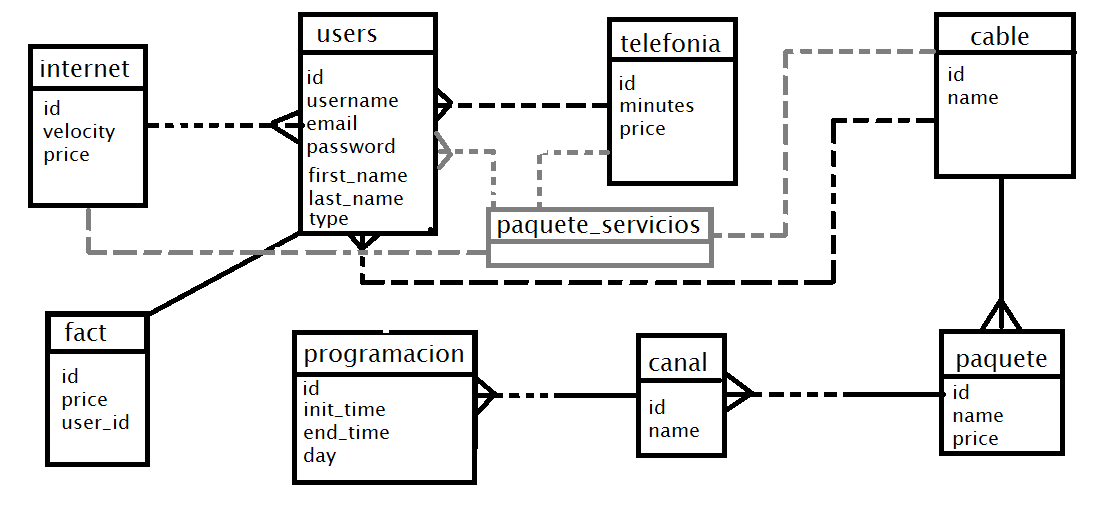
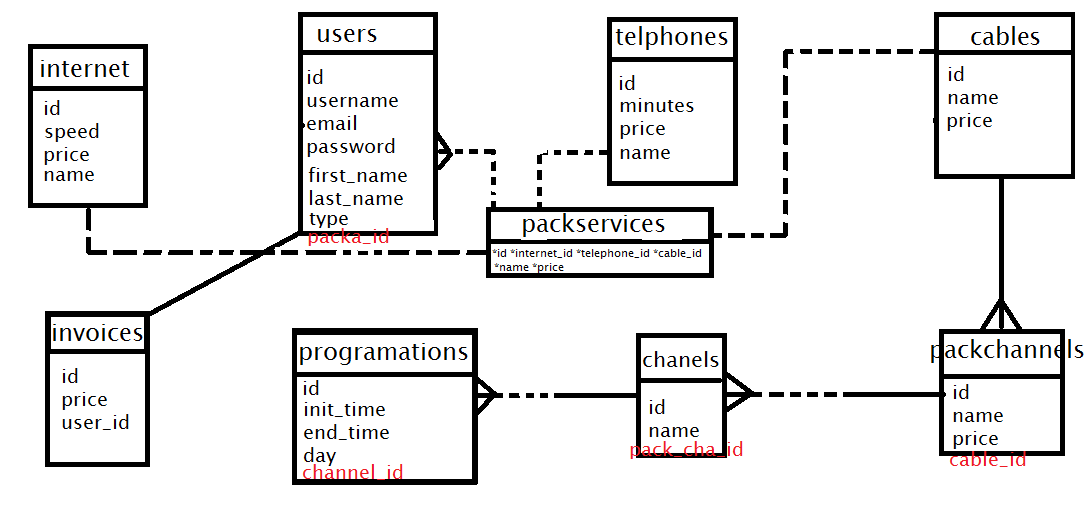
ending models and relations

diff --git a/database/migrations/2019_01_20_190535_create_packservices_table.php b/database/migrations/2019_01_20_190535_create_packservices_table.php
@@ -1,0 +1,39 @@
+<?php
+
+use Illuminate\Support\Facades\Schema;
+use Illuminate\Database\Schema\Blueprint;
+use Illuminate\Database\Migrations\Migration;
+
+class CreatePackservicesTable extends Migration
+{
+    /**
+     * Run the migrations.
+     *
+     * @return void
+     */
+    public function up()
+    {
+        Schema::create('packservices', function (Blueprint $table) {
+            $table->increments('id');
+            $table->string('name',30);
+            $table->double('price');
+            $table->integer('internet_id')->unsigned()->default('null');
+            $table->integer('telephone_id')->unsigned()->default('null');
+            $table->integer('cable_id')->unsigned()->default('null');
+            $table->foreign('internet_id')->references('id')->on('internets')->onDelete('cascade');
+            $table->foreign('telephone_id')->references('id')->on('telephones')->onDelete('cascade');
+            $table->foreign('cable_id')->references('id')->on('cables')->onDelete('cascade');
+            $table->timestamps();
+        });
+    }
+
+    /**
+     * Reverse the migrations.
+     *
+     * @return void
+     */
+    public function down()
+    {
+        Schema::dropIfExists('packservices');
+    }
+}

diff --git a/database/migrations/2019_01_20_190741_create_packchannels_table.php b/database/migrations/2019_01_20_190741_create_packchannels_table.php
@@ -4,7 +4,7 @@ use Illuminate\Support\Facades\Schema;
 use Illuminate\Database\Schema\Blueprint;
 use Illuminate\Database\Migrations\Migration;
 
-class CreateTelephonesTable extends Migration
+class CreatePackChannelsTable extends Migration
 {
     /**
      * Run the migrations.
@@ -13,10 +13,12 @@ class CreateTelephonesTable extends Migration
      */
     public function up()
     {
-        Schema::create('telephones', function (Blueprint $table) {
+        Schema::create('packchannels', function (Blueprint $table) {
             $table->increments('id');
-            $table->integer('minutes');
+            $table->string('name');
             $table->double('price');
+            $table->integer('cable_id')->unsigned();
+            $table->foreign('cable_id')->references('id')->on('cables')->onDelete('cascade');
             $table->timestamps();
         });
     }
@@ -28,6 +30,6 @@ class CreateTelephonesTable extends Migration
      */
     public function down()
     {
-        Schema::dropIfExists('telephones');
+        Schema::dropIfExists('packchannels');
     }
 }

diff --git a/database/migrations/2019_01_20_190456_create_cables_table.php b/database/migrations/2019_01_20_190456_create_cables_table.php
@@ -4,7 +4,7 @@ use Illuminate\Support\Facades\Schema;
 use Illuminate\Database\Schema\Blueprint;
 use Illuminate\Database\Migrations\Migration;
 
-class CreateProgramationsTable extends Migration
+class CreateCablesTable extends Migration
 {
     /**
      * Run the migrations.
@@ -13,12 +13,10 @@ class CreateProgramationsTable extends Migration
      */
     public function up()
     {
-        Schema::create('programations', function (Blueprint $table) {
+        Schema::create('cables', function (Blueprint $table) {
             $table->increments('id');
-            $table->string('name',30);
-            $table->string('start_hour',5);
-            $table->string('end_hour',5);
-            $table->integer('day');         
+            $table->string('name');
+            $table->double('price');
             $table->timestamps();
         });
     }
@@ -30,6 +28,6 @@ class CreateProgramationsTable extends Migration
      */
     public function down()
     {
-        Schema::dropIfExists('programations');
+        Schema::dropIfExists('cables');
     }
 }

diff --git a/database/migrations/2019_01_20_190704_create_invoices_table.php b/database/migrations/2019_01_20_190704_create_invoices_table.php
@@ -4,7 +4,7 @@ use Illuminate\Support\Facades\Schema;
 use Illuminate\Database\Schema\Blueprint;
 use Illuminate\Database\Migrations\Migration;
 
-class CreatePackageChannelsTable extends Migration
+class CreateInvoicesTable extends Migration
 {
     /**
      * Run the migrations.
@@ -13,10 +13,11 @@ class CreatePackageChannelsTable extends Migration
      */
     public function up()
     {
-        Schema::create('package_channels', function (Blueprint $table) {
+        Schema::create('invoices', function (Blueprint $table) {
             $table->increments('id');
-            $table->string('name');
             $table->double('price');
+            $table->integer('user_id')->unsigned();
+            $table->foreign('user_id')->references('id')->on('users')->onDelete('cascade');
             $table->timestamps();
         });
     }
@@ -28,6 +29,6 @@ class CreatePackageChannelsTable extends Migration
      */
     public function down()
     {
-        Schema::dropIfExists('package_channels');
+        Schema::dropIfExists('invoices');
     }
 }

diff --git a/database/migrations/2019_01_20_190406_create_telephones_table.php b/database/migrations/2019_01_20_190406_create_telephones_table.php
@@ -4,7 +4,7 @@ use Illuminate\Support\Facades\Schema;
 use Illuminate\Database\Schema\Blueprint;
 use Illuminate\Database\Migrations\Migration;
 
-class CreateInternetTable extends Migration
+class CreateTelephonesTable extends Migration
 {
     /**
      * Run the migrations.
@@ -13,14 +13,12 @@ class CreateInternetTable extends Migration
      */
     public function up()
     {
-        Schema::create('internet', function (Blueprint $table) {
+        Schema::create('telephones', function (Blueprint $table) {
             $table->increments('id');
-            $table->string('name',30);
-            $table->integer('speed');
+            $table->integer('minutes');
             $table->double('price');
-            $table->integer('user_id');
+            $table->string('name',30);
             $table->timestamps();
-
         });
     }
 
@@ -31,6 +29,6 @@ class CreateInternetTable extends Migration
      */
     public function down()
     {
-        Schema::dropIfExists('internet');
+        Schema::dropIfExists('telephones');
     }
 }

diff --git a/database/migrations/2019_01_20_190904_create_programations_table.php b/database/migrations/2019_01_20_190904_create_programations_table.php
@@ -1,0 +1,37 @@
+<?php
+
+use Illuminate\Support\Facades\Schema;
+use Illuminate\Database\Schema\Blueprint;
+use Illuminate\Database\Migrations\Migration;
+
+class CreateProgramationsTable extends Migration
+{
+    /**
+     * Run the migrations.
+     *
+     * @return void
+     */
+    public function up()
+    {
+        Schema::create('programations', function (Blueprint $table) {
+            $table->increments('id');
+            $table->string('name',30);
+            $table->string('start_hour',5);
+            $table->string('end_hour',5);
+            $table->integer('day');
+            $table->integer('channel_id')->unsigned();
+            $table->foreign('channel_id')->references('id')->on('channels')->onDelete('cascade');         
+            $table->timestamps();
+        });
+    }
+
+    /**
+     * Reverse the migrations.
+     *
+     * @return void
+     */
+    public function down()
+    {
+        Schema::dropIfExists('programations');
+    }
+}

diff --git a/database/migrations/2019_01_20_190222_create_internets_table.php b/database/migrations/2019_01_20_190222_create_internets_table.php
@@ -4,7 +4,7 @@ use Illuminate\Support\Facades\Schema;
 use Illuminate\Database\Schema\Blueprint;
 use Illuminate\Database\Migrations\Migration;
 
-class CreateCablesTable extends Migration
+class CreateInternetsTable extends Migration
 {
     /**
      * Run the migrations.
@@ -13,10 +13,13 @@ class CreateCablesTable extends Migration
      */
     public function up()
     {
-        Schema::create('cables', function (Blueprint $table) {
+        Schema::create('internets', function (Blueprint $table) {
             $table->increments('id');
-            $table->string('name');
+            $table->string('name',30);
+            $table->integer('speed');
+            $table->double('price');
             $table->timestamps();
+
         });
     }
 
@@ -27,6 +30,6 @@ class CreateCablesTable extends Migration
      */
     public function down()
     {
-        Schema::dropIfExists('cables');
+        Schema::dropIfExists('internets');
     }
 }

diff --git a/app/User.php b/app/User.php
@@ -9,14 +9,14 @@ use Illuminate\Foundation\Auth\User as Authenticatable;
 class User extends Authenticatable
 {
     use Notifiable;
-
+    protected $table='users';
     /**
      * The attributes that are mass assignable.
      *
      * @var array
      */
     protected $fillable = [
-        'username', 'email', 'password','first_name','last_name','type'
+        'username', 'email', 'password','first_name','last_name','type','packservice_id'
     ];
 
     /**
@@ -27,4 +27,12 @@ class User extends Authenticatable
     protected $hidden = [
         'password', 'remember_token',
     ];
+
+    public function invoice(){
+        return $this->hasOne('App\Invoice');
+    }
+
+    public function packservice(){
+        return $this->belongsTo('App\Packservice');
+    }
 }

diff --git a/app/Packservice.php b/app/Packservice.php
@@ -1,0 +1,27 @@
+<?php
+
+namespace App;
+
+use Illuminate\Database\Eloquent\Model;
+
+class Packservice extends Model
+{
+    protected $table='packservices';
+    protected $fillable=['name','price','internet_id','cable_id','telephone_id'];
+
+    public function internet(){
+        return $this->belongsTo('App\Internet');
+    }
+
+    public function telephone(){
+        return $this->belongsTo('App\Telephone');
+    }
+
+    public function cable(){
+        return $this->belongsTo('App\Cable');
+    }
+
+    public function users(){
+        return $this->hasMany('App\User');
+    }
+}

diff --git a/database/migrations/2019_01_20_190626_create_users_table.php b/database/migrations/2019_01_20_190626_create_users_table.php
@@ -22,6 +22,8 @@ class CreateUsersTable extends Migration
             $table->string('first_name',30);
             $table->string('last_name',30);
             $table->enum('type',['user','admin'])->default('user');
+            $table->integer('packservice_id')->unsigned()->default('null');
+            $table->foreign('packservice_id')->references('id')->on('packservices')->onDelete('cascade');
             $table->rememberToken();
             $table->timestamps();
         });

diff --git a/database/migrations/2019_01_20_190826_create_channels_table.php b/database/migrations/2019_01_20_190826_create_channels_table.php
@@ -16,6 +16,8 @@ class CreateChannelsTable extends Migration
         Schema::create('channels', function (Blueprint $table) {
             $table->increments('id');
             $table->string('name');
+            $table->integer('packchannel_id')->unsigned();
+            $table->foreign('packchannel_id')->references('id')->on('packchannels')->onDelete('cascade');
             $table->timestamps();
         });
     }

diff --git a/app/Cable.php b/app/Cable.php
@@ -7,5 +7,13 @@ use Illuminate\Database\Eloquent\Model;
 class Cable extends Model
 {
     protected $table='cables';
-    protected $fillable=['name'];
+    protected $fillable=['name','price'];
+
+    public function packservice(){
+        return $this->hasOne('App\Packservice');
+    }
+    
+    public function packchannels(){
+        return $this->hasMany('App\Packchannel');
+    }
 }
